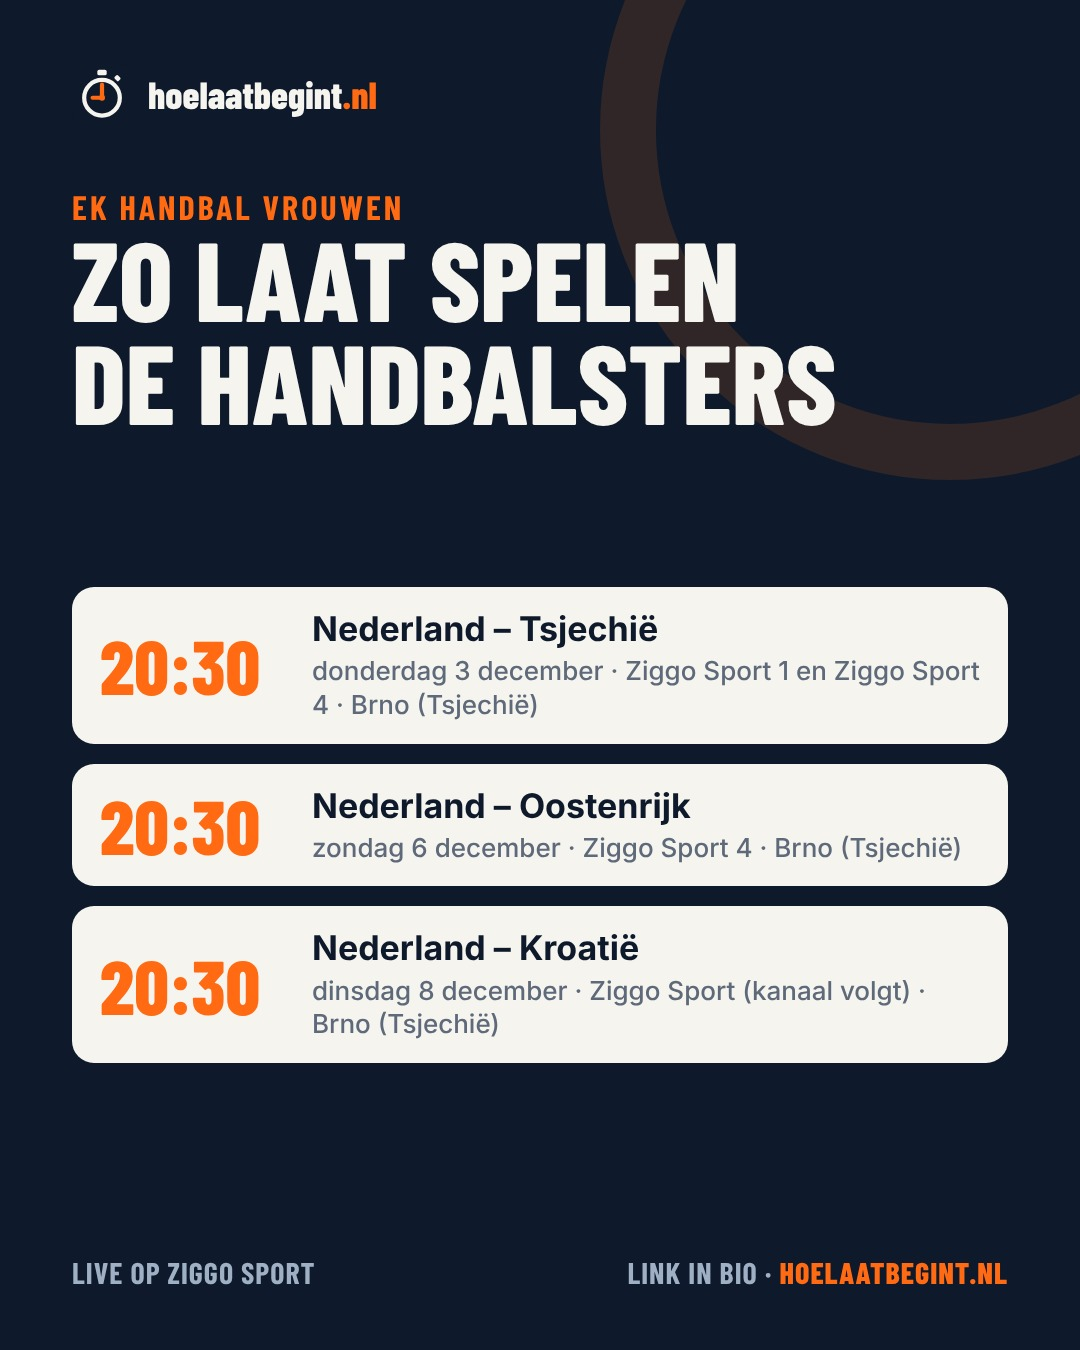
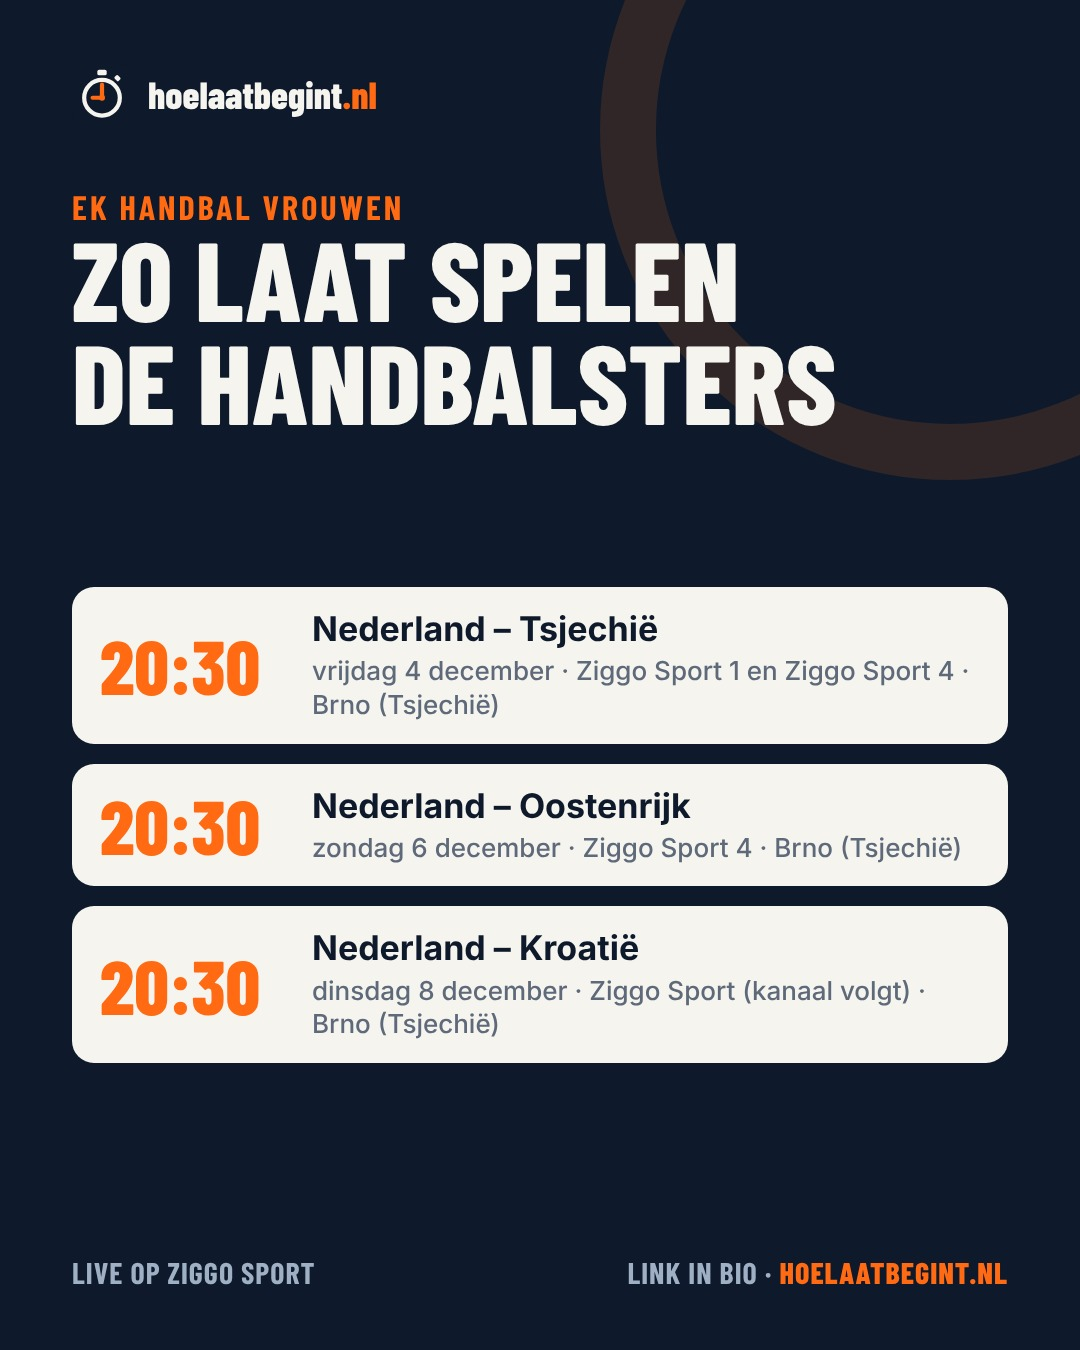
Startpost handbal met juiste datum (4 december)
Claude-Session: https://claude.ai/code/session_01ECV987G6u53GgfEj61xRob

Changed region(s): [[0.275, 0.4667, 0.8861, 0.5289]]

diff --git a/social/launch/captions.md b/social/launch/captions.md
@@ -50,7 +50,7 @@ Na de loting op 30 november zie je per speler hoe laat hij speelt. Link in bio.
 
 De handbalsters spelen het EK in Brno:
 
-donderdag 3 december 20:30 · Nederland – Tsjechië (Ziggo Sport 1 en Ziggo Sport 4)
+vrijdag 4 december 20:30 · Nederland – Tsjechië (Ziggo Sport 1 en Ziggo Sport 4)
 zondag 6 december 20:30 · Nederland – Oostenrijk (Ziggo Sport 4)
 dinsdag 8 december 20:30 · Nederland – Kroatië (Ziggo Sport (kanaal volgt))
 
